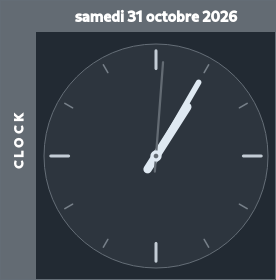
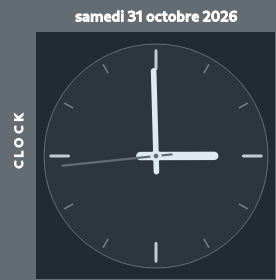
#9 The time and the date light up under the pointer
- the strip's time and date are caption buttons rather than labels, so each
  lights up under the pointer and presses in as the buttons beside them do
- the hover and the pressed look come from the style, leaving no colour of
  ours to keep in step with the scheme
- the room the clock carried in its own margins moved into the layout: a
  button's padding is what its hover panel hugs

Changed region(s): [[0.2319, 0.2286, 0.8116, 0.6286]]

diff --git a/src/TitleBar.cpp b/src/TitleBar.cpp
@@ -13,7 +13,6 @@
 #include <QApplication>
 #include <QDateTime>
 #include <QHBoxLayout>
-#include <QLabel>
 #include <QSignalBlocker>
 #include <QProxyStyle>
 #include <QSlider>
@@ -67,6 +66,20 @@ public:
         return QProxyStyle::styleHint(hint, option, widget, returnData);
     }
 };
+
+// The time and the date: a caption button carrying text rather than a glyph,
+// and as wide as the text needs. Auto-raise gives it the strip's flat look
+// until the pointer is on it, which is the whole point of its being a button.
+QToolButton *clockButton(QWidget *parent, const QString &tip) {
+    auto *button = new QToolButton(parent);
+    button->setToolButtonStyle(Qt::ToolButtonTextOnly);
+    button->setFixedHeight(kButtonHeight);
+    button->setAutoRaise(true);
+    button->setFocusPolicy(Qt::NoFocus);
+    button->setCursor(Qt::PointingHandCursor);
+    button->setToolTip(tip);
+    return button;
+}
 
 QToolButton *captionButton(QWidget *parent, QStyle::StandardPixmap glyph) {
     auto *button = new QToolButton(parent);
@@ -125,21 +138,11 @@ TitleBar::TitleBar(QWidget *parent) : QWidget(parent) {
 
     // The time and the date, each opening its own pane: the dial drops out of
     // the time and the month out of the date, as the desktop's own clock opens
-    // the month. Since the strip is used for dragging, both need a pointing
-    // cursor to show that they are clickable.
-    m_clock = new QLabel(this);
-    m_clock->setContentsMargins(kClockMargin, 0, 0, 0);
-    m_clock->setAlignment(Qt::AlignCenter);
-    m_clock->setCursor(Qt::PointingHandCursor);
-    m_clock->setToolTip(tr("Show the clock"));
-    m_clock->installEventFilter(this);
-
-    m_date = new QLabel(this);
-    m_date->setContentsMargins(kClockGap, 0, kClockMargin, 0);
-    m_date->setAlignment(Qt::AlignCenter);
-    m_date->setCursor(Qt::PointingHandCursor);
-    m_date->setToolTip(tr("Show the month"));
-    m_date->installEventFilter(this);
+    // the month. Caption buttons rather than labels, so that each lights up
+    // under the pointer and presses in like the buttons beside them; the strip
+    // is used for dragging, and something clickable on it has to say so.
+    m_clock = clockButton(this, tr("Show the clock"));
+    m_date = clockButton(this, tr("Show the month"));
     updateClock();
 
     auto *clockTimer = new QTimer(this);
@@ -177,8 +180,14 @@ TitleBar::TitleBar(QWidget *parent) : QWidget(parent) {
         layout->addSpacing(kVolumeMargin);
     }
     layout->addWidget(m_calculatorButton);
+    // The space the clock used to carry in its own margins: a button's padding
+    // is what its hover panel hugs, so the room around the pair belongs to the
+    // layout instead.
+    layout->addSpacing(kClockMargin);
     layout->addWidget(m_clock);
+    layout->addSpacing(kClockGap);
     layout->addWidget(m_date);
+    layout->addSpacing(kClockMargin);
     layout->addWidget(m_minimizeButton);
     layout->addWidget(m_maximizeButton);
     layout->addWidget(m_closeButton);
@@ -186,6 +195,27 @@ TitleBar::TitleBar(QWidget *parent) : QWidget(parent) {
     if (m_searchButton) {
         connect(m_searchButton, &QToolButton::clicked, this, [] { openDesktopSearch(); });
     }
+
+    // Both panes are built on first click rather than with the strip: most
+    // sessions open neither, and building the month queries the calendar
+    // service.
+    connect(m_clock, &QToolButton::clicked, this, [this] {
+        if (!m_clockFace) m_clockFace = new ClockPane(this);
+        if (m_clockFace->isVisible()) {
+            m_clockFace->hide();
+        } else {
+            m_clockFace->popUpAt(m_clock);
+        }
+    });
+
+    connect(m_date, &QToolButton::clicked, this, [this] {
+        if (!m_calendar) m_calendar = new CalendarPane(this);
+        if (m_calendar->isVisible()) {
+            m_calendar->hide();
+        } else {
+            m_calendar->popUpAt(m_date);
+        }
+    });
 
     connect(m_calculatorButton, &QToolButton::clicked, this, [this] {
         if (!m_calculator) m_calculator = new CalculatorPane(this);
@@ -512,30 +542,6 @@ void TitleBar::updateMaximizeButton() {
 }
 
 bool TitleBar::eventFilter(QObject *watched, QEvent *event) {
-    // Clicking the time opens the dial below it, and clicking the date the
-    // month. Both are built on first click rather than with the strip: most
-    // sessions open neither, and building the month queries the calendar
-    // service.
-    if (watched == m_clock && event->type() == QEvent::MouseButtonPress) {
-        if (!m_clockFace) m_clockFace = new ClockPane(this);
-        if (m_clockFace->isVisible()) {
-            m_clockFace->hide();
-        } else {
-            m_clockFace->popUpAt(m_clock);
-        }
-        return true;
-    }
-
-    if (watched == m_date && event->type() == QEvent::MouseButtonPress) {
-        if (!m_calendar) m_calendar = new CalendarPane(this);
-        if (m_calendar->isVisible()) {
-            m_calendar->hide();
-        } else {
-            m_calendar->popUpAt(m_date);
-        }
-        return true;
-    }
-
 
 
     if (watched == window()) {

diff --git a/src/TitleBar.h b/src/TitleBar.h
@@ -5,7 +5,6 @@
 class CalculatorPane;
 class CalendarPane;
 class ClockPane;
-class QLabel;
 class QMenuBar;
 class QSlider;
 class SystemVolumeWatch;
@@ -101,10 +100,11 @@ private:
     CalculatorPane *m_calculator = nullptr;
 
     // The time and the date read as one thing but open different panes, so they
-    // are two labels: the clock face drops out of the time, the month out of
-    // the date.
-    QLabel *m_clock;
-    QLabel *m_date;
+    // are two buttons: the clock face drops out of the time, the month out of
+    // the date. Buttons rather than labels so that each lights up under the
+    // pointer, as everything else on the strip that can be clicked does.
+    QToolButton *m_clock;
+    QToolButton *m_date;
     // Drops out of the time: the dial with its hands. Built on first use.
     ClockPane *m_clockFace = nullptr;
     // Drops out of the date: the month, with the events from the desktop's
